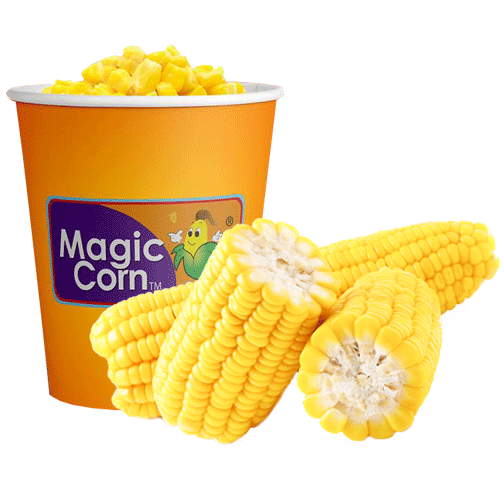
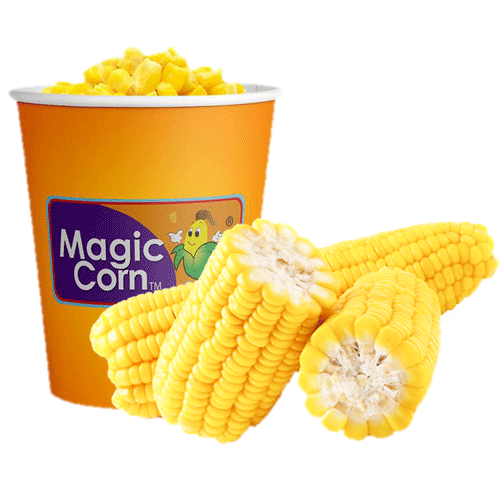
Show the product cut-out whole, and clean its edge
Magic-Corn-with-corn.png is the one product shot magiccorn.lk publishes, and
it is a cut-out: a palette PNG whose transparency is one bit deep. The original
anti-aliased boundary had been flattened against white before the palette was
built, so every edge pixel was either fully opaque or gone, and the last opaque
row still carried the white it was blended into — a jagged pale outline tracing
the cup and the cobs on the dark cards. scripts/clean-cutout-edges.py erodes
that contaminated row and feathers the mask back to the anti-aliasing the
palette threw away. Alpha only; no colour moves, and because the work stays on
the mask boundary the cup's white rim and the cob centres are untouched.

The cards then cropped what was left. object-cover fills the frame, which is
what a photograph wants and the opposite of what a cut-out wants — it was
taking the base off the cup and the ends off the cobs. Cut-outs are now fitted
whole with a little air around them, photographs still fill the frame. The two
are cleanly split by format in this library, so is_cutout_image() reads the
extension rather than opening every file on every request.

Also: a product whose collection is named after its category — which is every
corn-in-a-cup flavour — showed 'Corn in a cup' twice in the chip row.

Claude-Session: https://claude.ai/code/session_01UgFZzYHLPYVNiEvNZpXb6J

diff --git a/modules/Catalog/Views/show.php b/modules/Catalog/Views/show.php
@@ -20,7 +20,13 @@ $specs        = array_values(array_filter(
 ));
 $certs   = array_values(array_filter(array_map('trim', explode(',', (string) ($product['certifications'] ?? '')))));
 $has3d   = ! empty($product['model_path']);
+// A product whose collection is named after its category (every corn-in-a-cup
+// flavour) would otherwise show the same chip twice.
 $chips   = array_filter([$catName, $product['collection'] ?? null, $product['sku'] ?? null]);
+$chips   = array_values(array_intersect_key($chips, array_unique(array_map(
+    static fn ($c) => mb_strtolower(trim((string) $c)),
+    $chips,
+))));
 ?>
 <?= $this->section('content') ?>
 
@@ -63,7 +69,8 @@ $chips   = array_filter([$catName, $product['collection'] ?? null, $product['sku
                 <p class="mt-2 text-center text-xs uppercase tracking-widest text-white/40"><?= esc(lang('Site.products.drag')) ?></p>
             <?php elseif (! empty($product['hero_image'])): ?>
                 <figure class="isolate overflow-hidden rounded-3xl border border-white/10" data-gsap="reveal">
-                    <img src="<?= esc($product['hero_image'], 'attr') ?>" alt="<?= esc($pName, 'attr') ?>" class="w-full object-cover">
+                    <img src="<?= esc($product['hero_image'], 'attr') ?>" alt="<?= esc($pName, 'attr') ?>"
+                         class="w-full <?= is_cutout_image($product['hero_image']) ? 'p-8' : 'object-cover' ?>">
                 </figure>
             <?php endif; ?>
 
@@ -72,7 +79,8 @@ $chips   = array_filter([$catName, $product['collection'] ?? null, $product['sku
                 <div class="mt-4 grid grid-cols-3 gap-3 sm:grid-cols-4">
                     <?php foreach ($thumbs as $img): ?>
                         <figure class="isolate overflow-hidden rounded-xl border border-white/10">
-                            <img src="<?= esc($img, 'attr') ?>" alt="<?= esc($pName, 'attr') ?>" loading="lazy" class="aspect-square w-full object-cover">
+                            <img src="<?= esc($img, 'attr') ?>" alt="<?= esc($pName, 'attr') ?>" loading="lazy"
+                                 class="aspect-square w-full <?= is_cutout_image($img) ? 'object-contain p-3' : 'object-cover' ?>">
                         </figure>
                     <?php endforeach; ?>
                 </div>

diff --git a/scripts/clean-cutout-edges.py b/scripts/clean-cutout-edges.py
@@ -1,0 +1,57 @@
+#!/usr/bin/env python3
+"""Soften the hard edge on a flattened product cutout.
+
+Magic-Corn-with-corn.png — the product shot behind every corn-in-a-cup card —
+is a palette PNG whose transparency is one bit deep. The original cutout's
+anti-aliased boundary was flattened against white before the palette was built,
+so every edge pixel is either fully opaque or fully gone, and the last opaque
+row still carries the white it was blended into. On the site's dark cards that
+reads as a jagged pale outline tracing the whole silhouette.
+
+Eroding the mask by a couple of pixels drops the contaminated row, and a light
+blur gives back the anti-aliasing the palette threw away. Only the alpha
+channel is touched, so no colour in the photograph moves — and because the work
+is confined to the mask boundary, interior whites (the cup's rim, the cob's
+centre) are untouched.
+
+Idempotent: a mask that already has soft edges is left alone.
+
+    python3 scripts/clean-cutout-edges.py public/media/magiccorn/Magic-Corn-with-corn.png
+"""
+
+import sys
+
+from PIL import Image, ImageFilter
+
+ERODE_PX = 2
+FEATHER_PX = 1.0
+# A one-bit mask has (almost) no values between clear and solid. Anything above
+# this share of partial pixels means the edge is already anti-aliased.
+SOFT_EDGE_SHARE = 0.005
+
+
+def clean(path: str) -> bool:
+    im = Image.open(path).convert('RGBA')
+    alpha = im.getchannel('A')
+
+    hist = alpha.histogram()
+    partial = sum(hist[8:248]) / float(im.width * im.height)
+    if partial > SOFT_EDGE_SHARE:
+        print(f'{path}: {partial:.1%} partial alpha — edge already soft, left alone')
+        return False
+
+    mask = alpha
+    for _ in range(ERODE_PX):
+        mask = mask.filter(ImageFilter.MinFilter(3))
+    mask = mask.filter(ImageFilter.GaussianBlur(FEATHER_PX))
+
+    im.putalpha(mask)
+    im.save(path, 'PNG', optimize=True)
+    print(f'{path}: eroded {ERODE_PX}px, feathered {FEATHER_PX}px')
+    return True
+
+
+if __name__ == '__main__':
+    targets = sys.argv[1:] or ['public/media/magiccorn/Magic-Corn-with-corn.png']
+    changed = sum(clean(t) for t in targets)
+    print(f'{changed} of {len(targets)} cleaned')

diff --git a/modules/Catalog/Views/partials/card.php b/modules/Catalog/Views/partials/card.php
@@ -12,7 +12,7 @@ $badge  = $product['label'] ?? '';
     <span class="relative block aspect-[4/5] overflow-hidden">
         <?php if (! empty($product['hero_image'])): ?>
             <img src="<?= esc($product['hero_image'], 'attr') ?>" alt="<?= esc($cName, 'attr') ?>" loading="lazy"
-                 class="h-full w-full object-cover transition duration-500 group-hover:scale-[1.04]">
+                 class="h-full w-full transition duration-500 group-hover:scale-[1.04] <?= is_cutout_image($product['hero_image']) ? 'object-contain p-3' : 'object-cover' ?>">
         <?php endif; ?>
         <?php if ($badge !== '' && $badge !== null): ?>
             <span class="absolute left-3 top-3 rounded-full bg-brand-red px-3 py-1 text-[10px] font-semibold uppercase tracking-widest text-white"><?= esc(lang('Site.products.label_' . $badge)) ?></span>

diff --git a/modules/Core/Helpers/norlanka_helper.php b/modules/Core/Helpers/norlanka_helper.php
@@ -175,3 +175,20 @@ if (! function_exists('content_locales')) {
         return $map;
     }
 }
+
+if (! function_exists('is_cutout_image')) {
+    /**
+     * Is this product image a cut-out rather than a photograph?
+     *
+     * Cut-outs (the branded cup on transparency) have to be shown whole — a
+     * cover crop lops the product off — while photographs want the crop so
+     * they fill the card. Reading the alpha channel per request is not worth
+     * the file I/O, and in this library the two are cleanly split by format:
+     * cut-outs are PNG, photography is JPEG.
+     */
+    function is_cutout_image(?string $path): bool
+    {
+        return $path !== null
+            && preg_match('/\.png(\?.*)?$/i', $path) === 1;
+    }
+}
